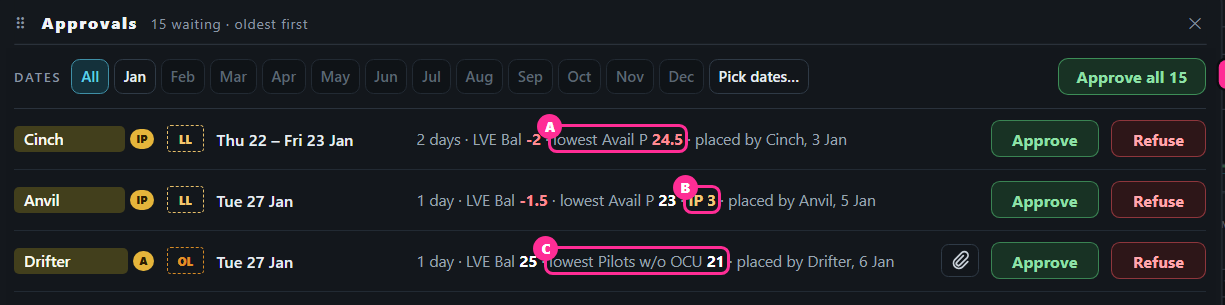
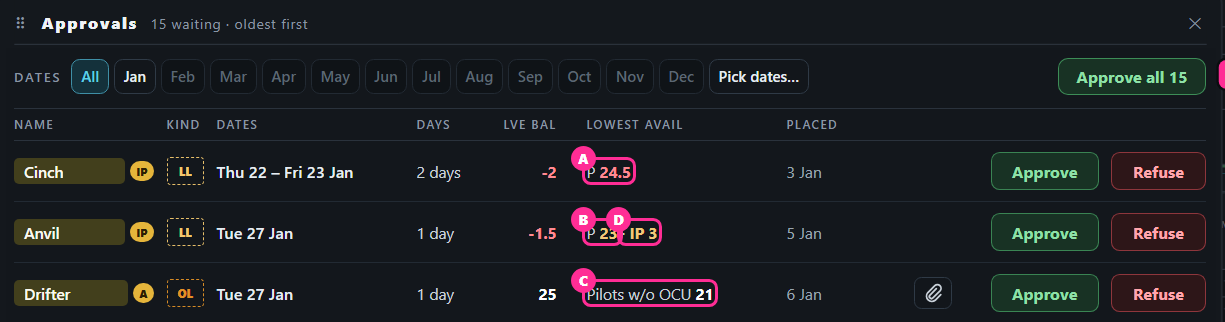
Leave War overhaul: the Approvals list in columns (D1189) and the Available rows' amber and red settings drawn (D1190, D1191); the page's version 27; the zoom overlay's empty picture marked as by design for the design checker

diff --git a/raptor-port/docs/mock/lw-overhaul/full-page.html b/raptor-port/docs/mock/lw-overhaul/full-page.html
@@ -120,15 +120,15 @@ a{color:var(--accent)}
       <h2><span class="qn">7</span>Quick approve, or approve all for a period? <span class="k t">your point 10</span></h2>
       <p><b>Your points, drawn:</b> each request shows the person's own puck (pilot or WSO by colour, his CAT, a SANS man's purple edge) and its kind as the grid's coloured box; "LVE Bal" in place of "LVE after"; a document icon where one is attached, tap to review it; the dates are every month of the period you are viewing (Jan to Dec), months with nothing waiting greyed. And on the Inputs page the type filter can pick "All leave" or "All medical", so one list shows who has not attached his document.</p>
       <p class="note"><b>Your question: is "lowest Avail P" taken at the time he applied, and are they in order of application?</b> It is live, not frozen: the lowest figure on that request's days as the grid stands now. Every request not refused is already counted (a request lowers manning the moment it is placed), so it shows the day as it would be if everything waiting were approved. Approving changes nothing; refusing gives the man back. One correction to my first drawing: a WSO's request now shows "lowest Avail W", since, as the rows stand, it never moves Avail P. A SANS man is never counted in Avail P or W (he offers his days on the SANS calendar), so his request moves neither: I recommend his line shows "SANS · not in Avail" in place of a figure. On the order: my first drawing ran by leave date even though it said "oldest first". I recommend oldest request first, the order they applied. The app does not record when a request was made yet; the overhaul adds that ("placed by Static, 2 Jan").</p>
-      <p class="note"><b>Your question: will the lowest Avail P or W show amber or red, and if you rename the row, does the line follow?</b> Today the grid turns an Avail P or W figure red where it is under that day's Required figure. The row has no amber of its own. So I recommend the line does the same: the figure red where it is under Required (A in the picture). The amber and red belong to your Manning rows, such as IP or SXO. Where one of those is amber or red on the request's days, the line names it in its colour (B), as the bid window does. And yes, renaming follows: the line uses the row's own name and counts whoever the row counts. If you rename Available P "Pilots w/o OCU" and leave OCU out, the line reads "lowest Pilots w/o OCU 21" at once (C). Nothing to set twice.</p>
-      <div class="shots"><figure class="wide"><img src="full/r4b-desk-approvals-colours.png" alt="The line's colours"><figcaption><span class="k n">The colours</span> · A red: under that day's Required · B an amber Manning row named · C a renamed row (drawn with sample figures)</figcaption></figure></div>
+      <p class="note"><b>Your question: will the lowest Avail P or W show amber or red, and if you rename the row, does the line follow?</b> <b>With your answers:</b> Avail P and W get an amber point, set in the row's own window as a number plus or minus that day's Required, "+ 2" for example: amber when fewer than Required + 2 are available. I've drawn red beside it as the same kind of setting, "+ 0" by default, which is today's rule (red when under Required). That way amber always comes before red; a minus amber would otherwise never show. Keep red fixed if you prefer. The line's figure wears the same colour (A red, B amber in the picture). Your Manning rows, such as IP or SXO, keep their own amber and red; where one is amber or red on the request's days, the line names it (D). Renaming follows: the line uses the row's own name and counts whoever the row counts (C).</p>
+      <div class="shots"><figure class="wide"><img src="full/r4b-availp-amber.png" alt="The Available P window with amber and red"><figcaption><span class="k n">Available P's window</span> · A amber: under Required + 2 · B red: under Required + 0, today's rule</figcaption></figure><figure class="wide"><img src="full/r4b-desk-approvals-colours.png" alt="The line's colours"><figcaption><span class="k n">The colours</span> · A red · B amber · C a renamed row · D an amber Manning row named (sample figures)</figcaption></figure></div>
       <ul class="opts">
         <li class="rec"><b>A · no quick-approve switch; the list's dates choose a period, and "Approve all" approves what it shows; each line coloured as above</b><span class="rec-pill">recommended</span><br>That is "approve all for a selected period". The grid's drag-select stays. A switch that makes a tap approve is easy to leave on, and then a tap meant to open a cell approves it.</li>
         <li><b>B · add the quick-approve switch</b> as well.</li>
       </ul>
       <div class="shots">
-        <figure class="wide"><img src="full/r4b-desk-approvals.png" alt="Approvals with your points"><figcaption><span class="k n">Approvals</span> · A his puck · B the kind, coloured · C LVE Bal · D the document · E every month of the period</figcaption></figure>
-        <figure><img src="full/r4b-phone-approvals.png" alt="Approvals on a phone"><figcaption><span class="k n">On a phone</span> · the months two rows, as in the "Open for bidding" window</figcaption></figure>
+        <figure class="wide"><img src="full/r4b-desk-approvals.png" alt="Approvals with your points"><figcaption><span class="k n">Approvals, in columns</span> · each figure under its heading, lined up down the list · A his puck · B the kind, coloured · C LVE Bal · D the document · E every month of the period</figcaption></figure>
+        <figure><img src="full/r4b-phone-approvals.png" alt="Approvals on a phone"><figcaption><span class="k n">On a phone</span> · each request's figures in four labelled cells that line up; the months two rows, as in the "Open for bidding" window</figcaption></figure>
         <figure class="wide"><img src="full/r4b-inputs-filter.png" alt="Inputs filter, All leave"><figcaption><span class="k n">Inputs page</span> · A "All leave" (and "All medical") to pick</figcaption></figure>
         <figure class="wide"><img src="full/r4b-inputs-all-leave.png" alt="Inputs list on All leave"><figcaption><span class="k n">On "All leave"</span> · B a document attached · C "No document", my addition so the gap stands out: strike it if you like</figcaption></figure>
         <figure class="wide"><img src="full/p-w10-desk-approvals-after.png" alt="After Approve all"><figcaption><span class="k n">After Approve all</span> · the note, and one Undo for all (drawn before your points)</figcaption></figure>

diff --git a/HANDOFF.md b/HANDOFF.md
@@ -25,8 +25,8 @@ the later merge keeps both (D78).
 - **The page:** https://claude.ai/artifact/6xaVkA1QHg7UmevMBRFaT9 (version 22; source `raptor-port/docs/mock/lw-overhaul/full-page.html`, pictures `…/full/`). Static drawings (no app build needed; run from `raptor-port` with `NODE_PATH=C:/Users/User/projects/Raptor/raptor-port/node_modules` and `LWMOCK_OUT=<scratchpad>`, then copy the chosen pictures from `<scratchpad>/out` into `full/`): `full-cells2/3/4.mjs` (cells), `full-q5*.mjs` (question 5), and **`full-r4.mjs`** (round 4: the top redrawn over the round-2 pictures — the open-dates chip where the stages were, "View", no "Viewing as"; question 10 both ways; question 9's window with the Document button; pictures `full/r4-*.png`) and **`full-r4b.mjs`** (his round-4 points: Approvals with the puck, coloured box, LVE Bal, document icon and the period's months; the bid window with coloured leave buttons and the tick placed two ways; the Inputs list on "All leave" with "No document"; Balances as a button — pictures `full/r4b-*.png`). Edit scripts with a script file, never node -e or a heredoc with \ or ${…}.
 - **His rulings this chat (all homed in the note's §5, D201 sweeps done):** D1157 year grid stays · D1158 Ack goes (narrows D331) · D1159 the one Document button (lesson 20) · D1160 rows keep their height, a whole day fills its cell, a half its half (narrows D1145; lesson 19) · D1161 all-green is boring (lesson 21; answered by D1165) · D1162 OD = overseas duty · D1163 Gryphon's SC not taken · D1164 HO drawn in a half (narrows D1160) · D1165 Q2 = E, a colour per kind of leave, his colours to confirm (LL / OL two ambers, OIL green; course lilac) · D1166 Q6 = B in his words: locks stop only bidding on the war, the Inputs page is never locked, after closing a member edits his leave there after verbal approval (narrows D1156; P6 struck) · D1167 4b = A, two whole-day entries side by side (narrows D1146; he chose it over the agent's C — three letters cramped on a phone, to check at the build) · D1177 Q5 = open: the stages go, the "Open for bidding" window the one switch (replaces D1156; narrows D1166, D418, D333, D352, D827, D679, D1141, D413) · D1176 the closed note says "seek management's approval" · D1175 Q2 confirmed: look F as drawn · D1173 the "Viewing as" chip goes (replaces D365, narrows D678) · D1174 the period picker labelled "View", phone too · D1172 a calendar icon on each open stretch, not a pencil (D1170–D1171 belong to another branch) · D1169 hold and drag across the month buttons opens every month passed over · D1168 the "Open for bidding" window gets month quick-buttons, a tap opens or closes a whole month, exact days behind the pencil (lesson 22). Fresh Opus reads: lessons 19–21 and their lines read and fixed; lesson 22 and D1167–D1168 read too, its marks taken (closing a month by a second tap, and the buttons inside the window, marked as the agent's readings). **Owed:** one fresh Opus read of the short lines and full rows of D1169, D1172–D1177 and the narrowed lines of D418, D333, D352, D827, D679, D1141, D1166, D413 (D138, D941 — no new lesson among them).
 - **The owed fresh Opus read is DONE (21 Oct 26)** — the short lines and full rows of D1169, D1172–D1177 and the narrowed D418, D333, D352, D827, D679, D1141, D1166, D413; its 11 marks taken (commit "the fresh Opus read of round 3's rulings"): D678 and D679 narrowed by D1177 (D679 by D1173, D1174 too); D1173's reason corrected (on a phone the name badge is hidden — the menu's "Signed in as" line; told to him on the page); D1141 marked by D1173; D418 with no published war; D413 ends "the admin texts the squadron"; D1176's trigger (any day not open) marked as the agent's; D1168, D1166, D333, D352 restated; D1177's readings gain the moved mark and remarks at any time; the two §Settled entries that read the stage marked.
-- **His round-4 rulings so far (21 Oct 26, all homed in the note's §5; a fresh Opus read of D1178–D1182 taken — the Avail P answer corrected: each line shows the requester's own seat's figure, and the list's order is oldest request first once "when placed" is stored):** D1178 a document icon on an Approvals line · D1179 the Inputs filter picks a whole family (all leave, all medical) — "No document" recommended with it · D1180 Approvals shows the person's puck and the kind's coloured box (lesson 23) · D1181 "LVE Bal" · D1182 "Approve what I enter" placed in line (lesson 24) · D1183 the bid windows' leave buttons in look F's colours · D1184 the Approvals dates cover the whole period on view · D1185 question 8 = A, Balances drawn as a button (lesson 25). **A second fresh Opus read (D1182 as revised, D1183–D1185, lessons 24–25, the page's Avail P answer) is DONE, its five marks taken (a SANS man's line: "SANS · not in Avail", recommended on the page). A third read (D1186, D1187) DONE, its four marks taken. **Owed:** one fresh read of D1188's short line and lesson 26 — run it with the reads of his answers to 7 and 10.**
-- **Round 4 PUT (page version 21; redrawn versions 22–26), 9 answered (D1186, D1187), 10 redrawn per D1188 (Approvals beside "+ New" / "+" on both), waiting for his answers to 7 and 10:** Q7 approve all for a period (A: no quick switch, the Approvals dates filter + "Approve all" approves what it shows), Q8 Balances (A: the drawer renamed, no second list), Q9 "Approve what I enter" (A: off each time), **Q10 re-cut after D1177: where Approvals opens** (A: where "Viewing as" was, the top line after "+ New", desktop and phone — recommended; B: beside the open dates — on a phone the line overflows and Legend leaves the screen). Note §9.3 and §5 say so.
+- **His round-4 rulings so far (21 Oct 26, all homed in the note's §5; a fresh Opus read of D1178–D1182 taken — the Avail P answer corrected: each line shows the requester's own seat's figure, and the list's order is oldest request first once "when placed" is stored):** D1178 a document icon on an Approvals line · D1179 the Inputs filter picks a whole family (all leave, all medical) — "No document" recommended with it · D1180 Approvals shows the person's puck and the kind's coloured box (lesson 23) · D1181 "LVE Bal" · D1182 "Approve what I enter" placed in line (lesson 24) · D1183 the bid windows' leave buttons in look F's colours · D1184 the Approvals dates cover the whole period on view · D1185 question 8 = A, Balances drawn as a button (lesson 25). **A second fresh Opus read (D1182 as revised, D1183–D1185, lessons 24–25, the page's Avail P answer) is DONE, its five marks taken (a SANS man's line: "SANS · not in Avail", recommended on the page). A third read (D1186, D1187) DONE, its four marks taken. A fresh read of D1188–D1191 and lessons 26–27 was started at the end of this chat — if its marks are not in the commits, run it again.**
+- **Round 4 PUT (page version 21; redrawn versions 22–26), 9 answered (D1186, D1187), 10 redrawn per D1188 (Approvals beside "+ New" / "+" on both); version 27: the Approvals list in columns (D1189), the Available rows' amber and red settings drawn (D1190, D1191 — red as a setting is the agent's proposal, his to confirm), waiting for his answers to 7 and 10:** Q7 approve all for a period (A: no quick switch, the Approvals dates filter + "Approve all" approves what it shows), Q8 Balances (A: the drawer renamed, no second list), Q9 "Approve what I enter" (A: off each time), **Q10 re-cut after D1177: where Approvals opens** (A: where "Viewing as" was, the top line after "+ New", desktop and phone — recommended; B: beside the open dates — on a phone the line overflows and Legend leaves the screen). Note §9.3 and §5 say so.
 - **Next:** record each answer as a ruling **from D1189** (this branch now takes D1190–D1199, checked 21 Oct 26) (this branch takes **D1178–D1189**; D1178–D1187 used — check for D1190 and up before going past D1189), home in the note's §5, D201 sweep; then put round 5 — Q11 the day panel stacked (its "locked day's reason" now "a day not open for bidding says so on its first line"), Q12 Management, then the readings and P1–P5, P7 to strike (P3 reworded for closed dates) — then the build plan.
 - **His question "after bidding closes, what do members see?"** answered and drawn (step 6 of `full-q5-flow.mjs`, `full/p5-flow6.png`): the chip reads "Bidding closed"; the grid shows as normal, nothing dimmed; a tap on a day to bid says "Bidding is closed. To change your leave, seek management's approval, then file it on the Inputs page" (his words, D1176); his own approved leave still opens its remarks and documents — the agent's design, not yet ruled; goes with his Q5 answer.
 - **His question "do we show that the last open stretch closed?"** answered: not on the grid (clutter); a tap on "Bidding closed" shows "Last open 1 Apr – 30 Jun · closed by Saber, 15 Mar", and the bell tells members — proposed as P7 in the notifications register, his to strike; neither ruled yet.
